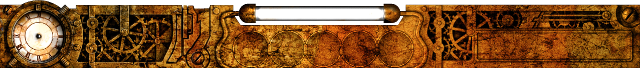
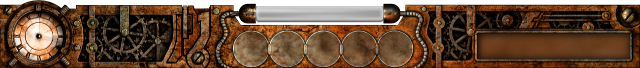
Close #41 : Clock works!

diff --git a/moonlight/src/GameStates.js b/moonlight/src/GameStates.js
@@ -127,18 +127,38 @@ GameState.prototype.create = function()
 			   this);
     this.clockTimer.start();
 
-    this.hud = this.game.add.image(0, game.camera.height - 68, 'hud', 0, this.uigroup);
+    var hudoffset = game.camera.height - 68;
+    this.hud = this.game.add.image(0, hudoffset, 'hud', 0, this.uigroup);
+    this.hud_hourhand = this.game.add.sprite(39, 
+					     hudoffset + 36, 
+					     'clock_hourhand', 
+					     0, 
+					     this.uigroup);
+    this.hud_hourhand.anchor.setTo(0.5, 0.5);
+    this.hud_minutehand = this.game.add.sprite(39, 
+					       hudoffset + 36, 
+					       'clock_minutehand', 
+					       0, 
+					       this.uigroup);
+    this.hud_minutehand.anchor.setTo(0.5, 0.5);
+    this.hud_clockoverlay = this.game.add.image(39, 
+						hudoffset + 36, 
+						'clock_overlay', 
+						0, 
+						this.uigroup);
+    this.hud_clockoverlay.anchor.setTo(0.5, 0.5);
+    
     this.fpsText = this.game.add.text(
         20, 20, '', { font: '16px Arial', fill: '#ffffff' }, this.uigroup
     );
 
-    this.clockText = this.game.add.text(
-	20, SCREEN_HEIGHT - 40, '', { font : '16px Arial', fill: '#ffffff' }, this.uigroup
-    );
+    // this.clockText = this.game.add.text(
+    // 	20, SCREEN_HEIGHT - 40, '', { font : '16px Arial', fill: '#ffffff' }, this.uigroup
+    // );
 
     this.scoreText = this.game.add.text(
         SCREEN_WIDTH - 80, SCREEN_HEIGHT - 30, '', 
-	{ font: '16px Arial', fill: '#ffffff' }, this.uigroup
+	{ font: '16px Arial', fill: '#ffffff' }, this.uigrpoup
     );
 
     // this.lightbox = this.game.add.image(game.camera.width / 2 - 50,
@@ -441,7 +461,12 @@ GameState.prototype.update = function()
     if (game.time.fps !== 0) {
         this.fpsText.setText(game.time.fps + ' FPS');
     }
-    this.clockText.setText("" + this.clock.getHours() + ":" + this.clock.getMinutes() + ":" + this.clock.getSeconds());
+    var clockhour = this.clock.getHours();
+    if ( this.clock.getHours() > 12 ) 
+	clockhour -= 12;
+    this.hud_hourhand.frame = parseInt((5 * clockhour) + (0.083 * this.clock.getMinutes()));
+    this.hud_minutehand.frame = this.clock.getMinutes();
+    // this.clockText.setText("" + this.clock.getHours() + ":" + this.clock.getMinutes() + ":" + this.clock.getSeconds());
     this.scoreText.setText("" + player.score);
 }
 

diff --git a/moonlight/src/Settings.js b/moonlight/src/Settings.js
@@ -156,6 +156,10 @@ var moonlightSettings = {
 	    'path': 'gfx/ui/hud.png'
 	},
 	{
+	    'name': 'clock_overlay',
+	    'path': 'gfx/ui/clock_overlay.png'
+	},
+	{
 	    'name': 'lightbar',
 	    'path': 'gfx/ui/lightbar.png'
 	},
@@ -165,6 +169,20 @@ var moonlightSettings = {
 	}
     ],
     'spritesheets': [
+	{
+	    'name': 'clock_minutehand',
+	    'path': 'gfx/ui/clock_minutehand.png',
+	    'width': 64,
+	    'height': 64,
+	    'frames': 60
+	},
+	{
+	    'name': 'clock_hourhand',
+	    'path': 'gfx/ui/clock_hourhand.png',
+	    'width': 64,
+	    'height': 64,
+	    'frames': 60
+	},
 	{
 	    'name': 'flame',
 	    'path': 'gfx/effects/flame.png',
